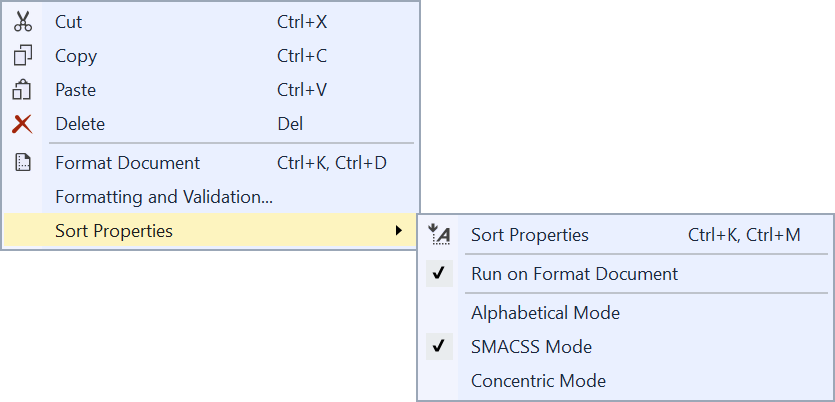
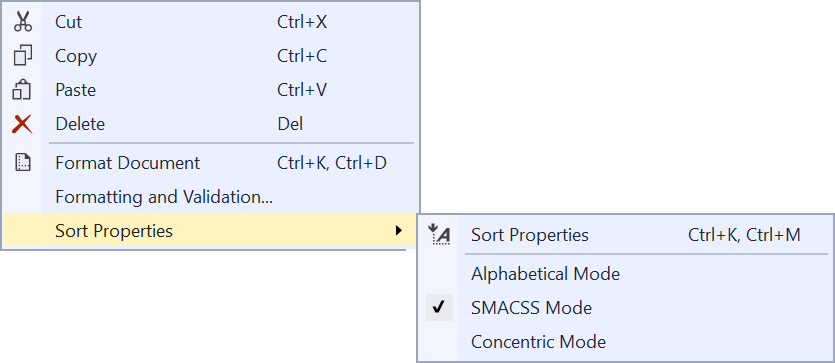
Remove sort on format Fixed #1

diff --git a/src/Commands/CommandRegistration.cs b/src/Commands/CommandRegistration.cs
@@ -19,7 +19,6 @@ namespace CssSorter
     internal sealed class CommandRegistration : IVsTextViewCreationListener
     {
         public static string[] FileExtensions { get; } = { ".css" };
-        private uint _cookie;
 
         [Import]
         private IVsEditorAdaptersFactoryService AdaptersFactory { get; set; }
@@ -33,7 +32,6 @@ namespace CssSorter
         public async void VsTextViewCreated(IVsTextView textViewAdapter)
         {
             IWpfTextView view = AdaptersFactory.GetWpfTextView(textViewAdapter);
-            view.Closed += OnViewClosed;
 
             if (!DocumentService.TryGetTextDocument(view.TextBuffer, out ITextDocument doc))
                 return;
@@ -48,25 +46,11 @@ namespace CssSorter
 
             AddCommandFilter(textViewAdapter, new SortCommand(view, undoManager, node));
             AddCommandFilter(textViewAdapter, new ModeCommand());
-            AddCommandFilter(textViewAdapter, new RunOnFormatCommand());
-
-            var formatCommand = new FormatDocumentCommand(view, undoManager, node);
-            AddCommandFilter(textViewAdapter, formatCommand);
-
-            // FormatDocument is handled exclusively by the CSS editor, so we need to inject ourselves as early as possible
-            var registerPct = (IVsRegisterPriorityCommandTarget)ServiceProvider.GlobalProvider.GetService(typeof(SVsRegisterPriorityCommandTarget));
-            registerPct.RegisterPriorityCommandTarget(0, formatCommand, out _cookie);
 
             if (!node.IsReadyToExecute())
             {
                 await Install(node);
             }
-        }
-
-        private void OnViewClosed(object sender, EventArgs e)
-        {
-            var registerPct = (IVsRegisterPriorityCommandTarget)ServiceProvider.GlobalProvider.GetService(typeof(SVsRegisterPriorityCommandTarget));
-            registerPct.UnregisterPriorityCommandTarget(_cookie);
         }
 
         private static async System.Threading.Tasks.Task Install(NodeProcess node)

diff --git a/src/NodeProcess.cs b/src/NodeProcess.cs
@@ -9,7 +9,7 @@ namespace CssSorter
 {
     internal class NodeProcess
     {
-        public const string Packages = "css-declaration-sorter@1.6.0";
+        public const string Packages = "postcss-cli css-declaration-sorter@1.6.0 postcss-less postcss-scss";
 
         private static string _installDir = Path.Combine(Path.GetTempPath(), Vsix.Name, Packages.GetHashCode().ToString());
         private static string _executable = Path.Combine(_installDir, "node_modules\\.bin\\cssdeclsort.cmd");
@@ -129,13 +129,6 @@ namespace CssSorter
             }
 
             return "concentric-css";
-        }
-
-        private static string GetConfigPath()
-        {
-            string assembly = Assembly.GetExecutingAssembly().Location;
-            string folder = Path.GetDirectoryName(assembly);
-            return Path.Combine(folder, "Resources\\csscomb.json");
         }
 
         private static void ModifyPathVariable(ProcessStartInfo start)

diff --git a/src/VSCommandTable.cs b/src/VSCommandTable.cs
@@ -31,13 +31,11 @@ namespace CssSorter
         public const int ContextMenuGroup = 0x1020;
         public const int SettingsGroup = 0x1030;
         public const int ExecuteGroup = 0x1040;
-        public const int RunGroup = 0x1050;
         public const int ContextMenu = 0x1200;
         public const int SortId = 0x0100;
         public const int SortAlphabeticallyId = 0x0200;
         public const int SortSmacssId = 0x0300;
         public const int SortConcentricId = 0x0400;
-        public const int RunOnFormatId = 0x0500;
         public const int cssContextMenu = 0x0002;
         public const int groupFormat = 0x0082;
     }

diff --git a/src/CssSorterPackage.cs b/src/CssSorterPackage.cs
@@ -28,7 +28,7 @@ namespace CssSorter
                     {
                         if (_options == null)
                         {
-                            LoadPackage();
+                            EnsurePackageLoaded();
                         }
                     }
                 }
@@ -44,7 +44,7 @@ namespace CssSorter
             return base.InitializeAsync(cancellationToken, progress);
         }
 
-        private static void LoadPackage()
+        private static void EnsurePackageLoaded()
         {
             var shell = (IVsShell)GetGlobalService(typeof(SVsShell));
 

diff --git a/src/Options.cs b/src/Options.cs
@@ -10,12 +10,6 @@ namespace CssSorter
         private const string _general = "General";
 
         [Category(_general)]
-        [DisplayName("Run on Format Document")]
-        [Description("This will automatically run sorting when the Format Document command is called.")]
-        [DefaultValue(true)]
-        public bool RunOnFormat { get; set; } = true;
-
-        [Category(_general)]
         [DisplayName("Mode")]
         [Description("Determines what algorithm to use for sorting the properties.")]
         [DefaultValue(Mode.SMACSS)]

diff --git a/src/Commands/SortCommand.cs b/src/Commands/SortCommand.cs
@@ -40,7 +40,7 @@ namespace CssSorter
             return Next.Exec(pguidCmdGroup, nCmdID, nCmdexecopt, pvaIn, pvaOut);
         }
 
-        public static async Task<bool> ExecuteAsync(IWpfTextView view, ITextBufferUndoManager undoManager, NodeProcess node)
+        private static async Task<bool> ExecuteAsync(IWpfTextView view, ITextBufferUndoManager undoManager, NodeProcess node)
         {
             string input = view.TextBuffer.CurrentSnapshot.GetText();
             string output = await node.ExecuteProcess(input);

diff --git a/src/source.extension.cs b/src/source.extension.cs
@@ -11,7 +11,7 @@ namespace CssSorter
         public const string Name = "CSS Sorter";
         public const string Description = @"Sort CSS properties easily for better readibility and GZIP compression";
         public const string Language = "en-US";
-        public const string Version = "0.6";
+        public const string Version = "0.7.1";
         public const string Author = "Mads Kristensen";
         public const string Tags = "CSS, LESS, Sass, Scss, Sorting";
     }

diff --git a/src/Commands/ModeCommand.cs b/src/Commands/ModeCommand.cs
@@ -1,12 +1,6 @@
-using EnvDTE;
-using Microsoft.VisualStudio;
+using Microsoft.VisualStudio;
 using Microsoft.VisualStudio.OLE.Interop;
-using Microsoft.VisualStudio.Shell;
-using Microsoft.VisualStudio.Text;
-using Microsoft.VisualStudio.Text.Editor;
-using Microsoft.VisualStudio.Text.Operations;
 using System;
-using System.Threading.Tasks;
 
 namespace CssSorter
 {
